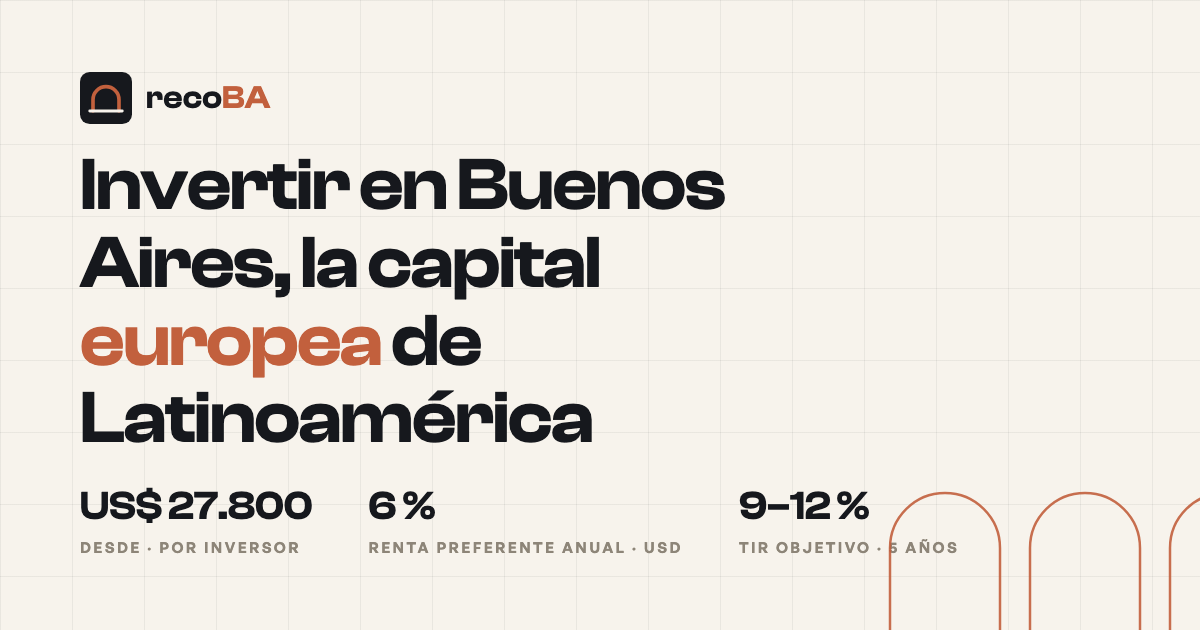
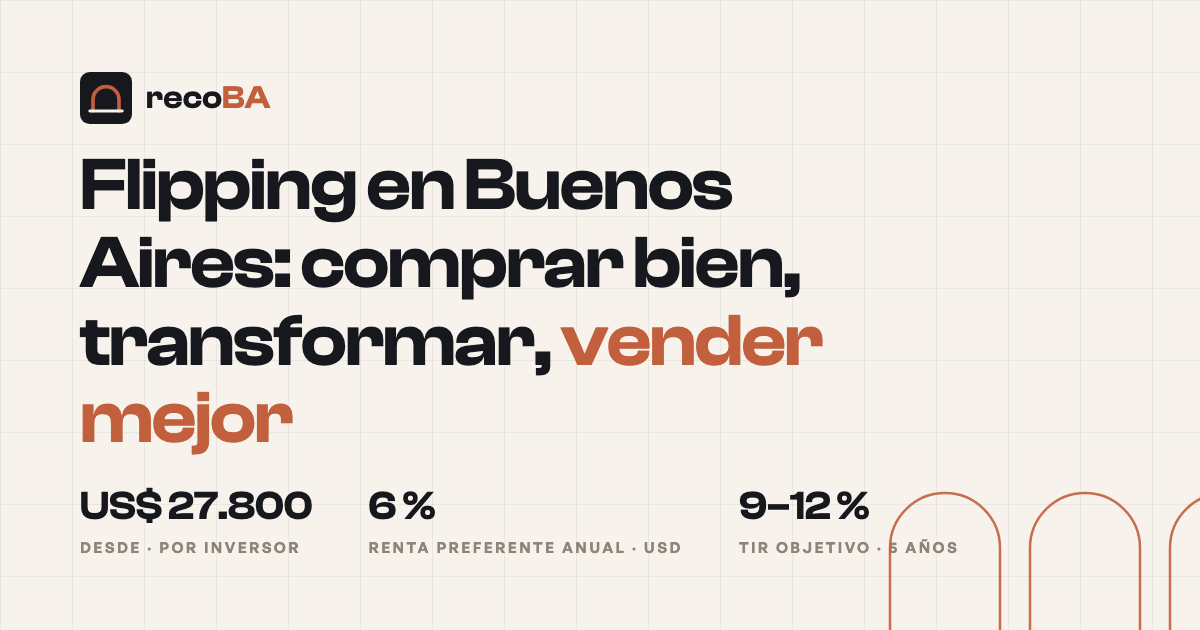
Hero: titular centrado en flipping, menos aire sobre el fold, OG actualizada

Changed region(s): [[0.0617, 0.4524, 0.7092, 0.7238], [0.0617, 0.2413, 0.6783, 0.4825]]

diff --git a/scripts/og-template.html b/scripts/og-template.html
@@ -59,7 +59,7 @@
       </svg>
       <span>reco<em style="font-style:normal;color:#C2603D">BA</em></span>
     </div>
-    <h1>Invertir en Buenos Aires, la capital <em>europea</em> de Latinoamérica</h1>
+    <h1>Flipping en Buenos Aires: comprar bien, transformar, <em>vender mejor</em></h1>
     <div class="foot">
       <div class="stat"><b>US$ 27.800</b><i>desde · por inversor</i></div>
       <div class="stat"><b>6 %</b><i>renta preferente anual · USD</i></div>
